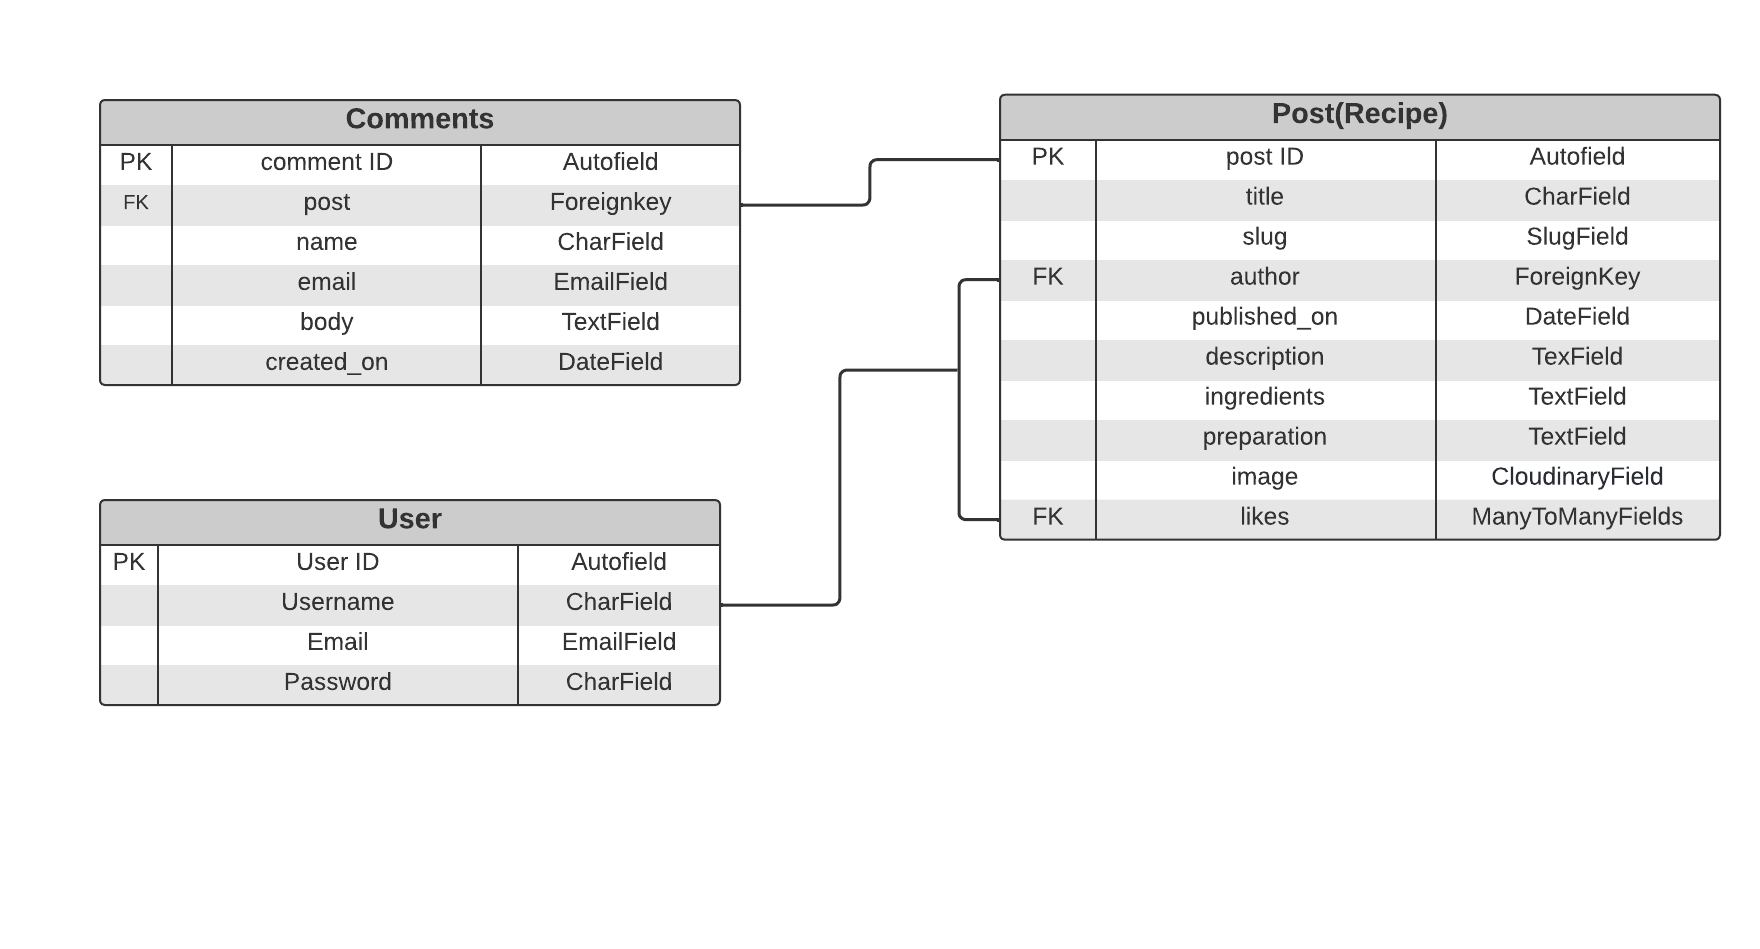
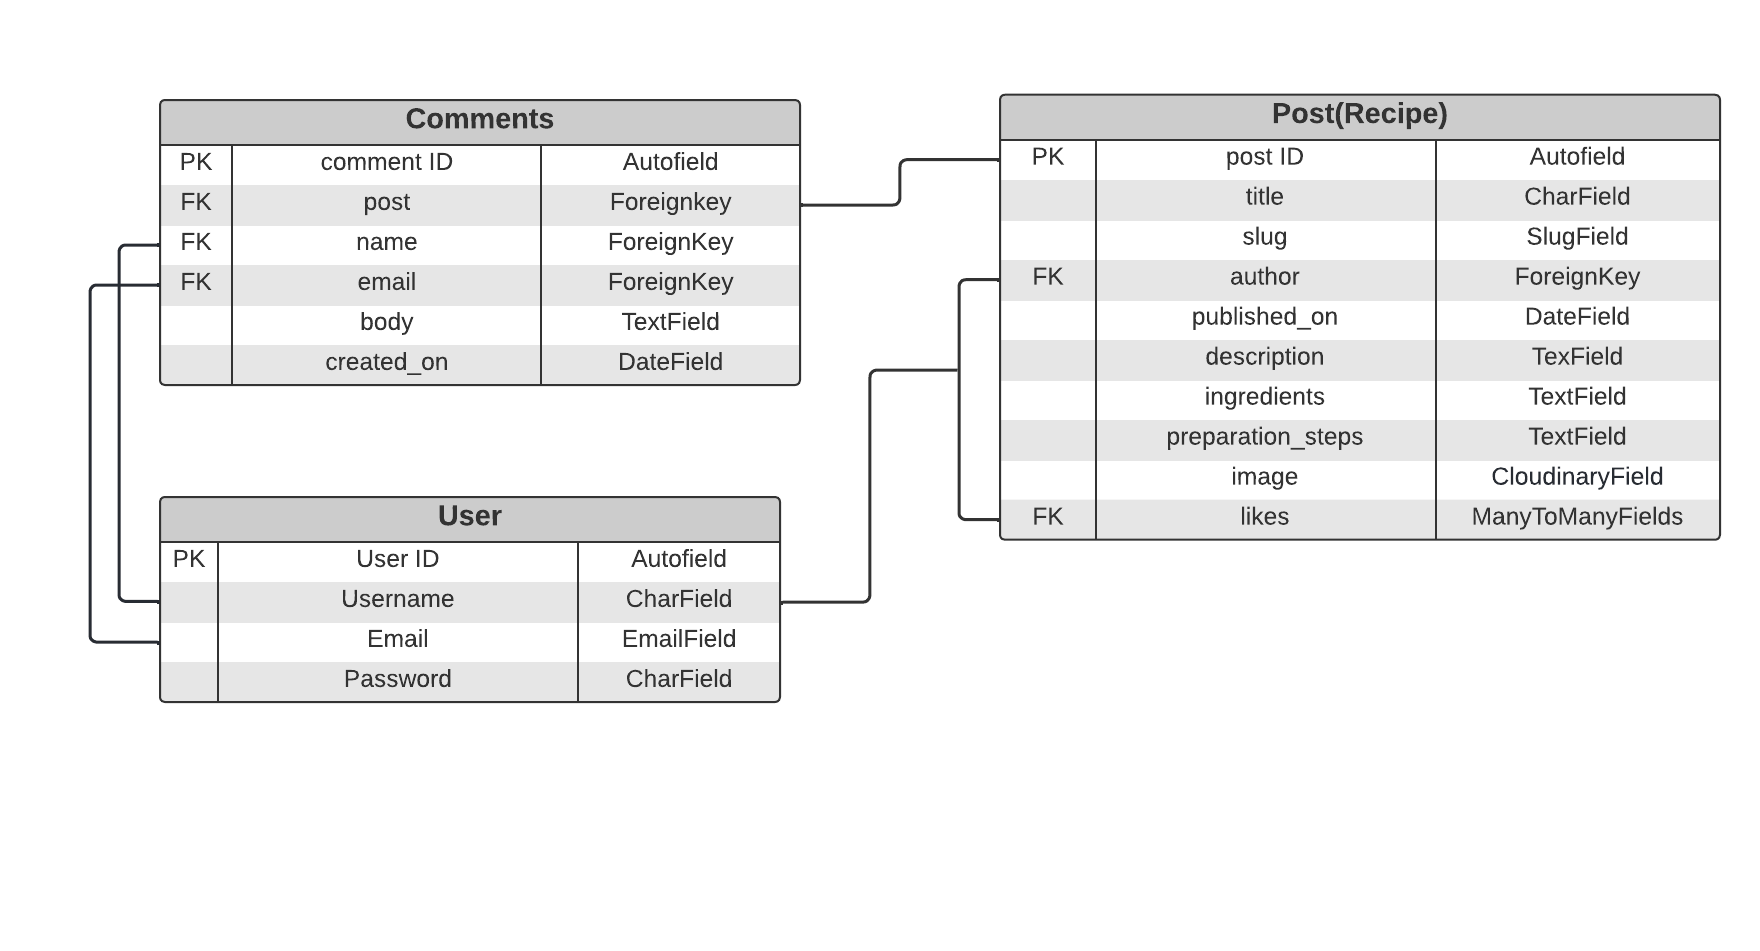
Correct spelling mistakes and add new database schema image

diff --git a/README.md b/README.md
@@ -51,7 +51,7 @@ The target audience for 'The Healthy Family' are:
 
 These users will be looking for:
 - An informative website, with information that is easy-to-find & concise
-- A website that provides healthy and easy to prepare meals
+- A website that offers healthy and easy prepared meals
 - Ability to make a user account in order to interact with the site content
 - Ability to save liked recipes for later use
 - Ability to post, comment and like recipes
@@ -63,6 +63,7 @@ This website will offer all of these things whilst also allowing for intuitive n
 **Epic: Admin**
 - As a site Admin I can create, edit and delete recipes and comments so that I can manage the site content
 - As a site Admin I can access the admin panel so that I can manage recipes and comments
+- As a site Admin I can log out of the admin panel so that I can disconnect from the website
 
 **Epic: User Interaction**
 - As a logged-in User I can write comments on recipes so that I can leave my feedback
@@ -78,7 +79,7 @@ This website will offer all of these things whilst also allowing for intuitive n
 
 **Epic: Login/Register**
 - As a User I can register for an account so that I can interact with the site content
-- As a User I can login/logout off my account if I wish so that I can connect or disconnect from the website
+- As a User I can log in/out off my account if I wish so that I can connect or disconnect from the website
 - As a User I can easily see if I'm logged-in or logged-out so that I can be sure what my status is
 
 **Epic: Navigation**
